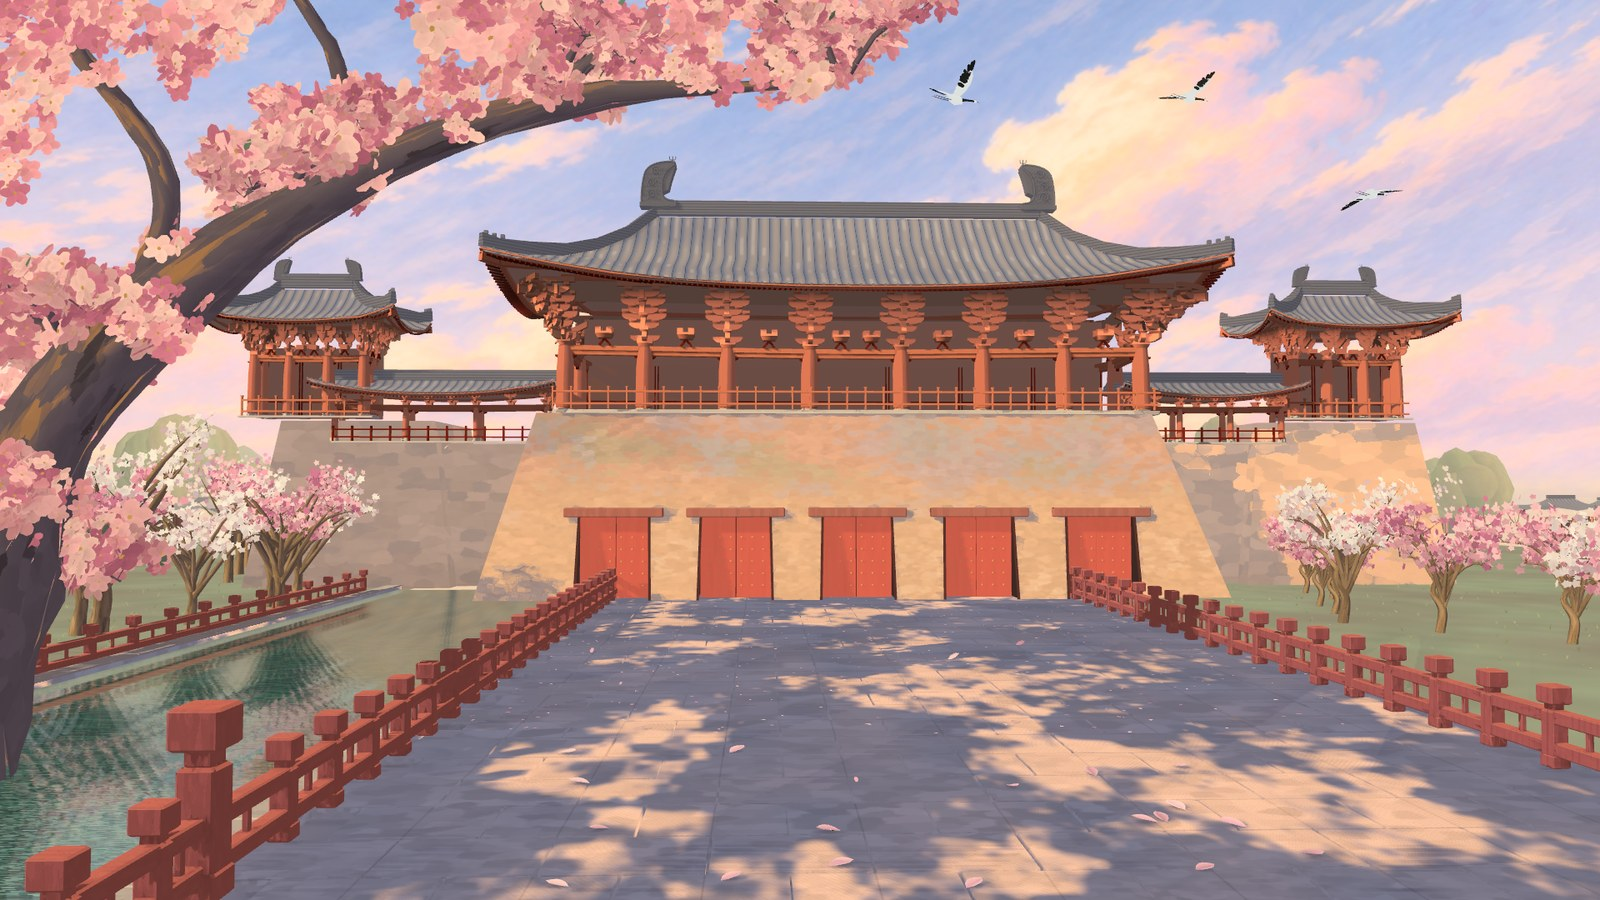
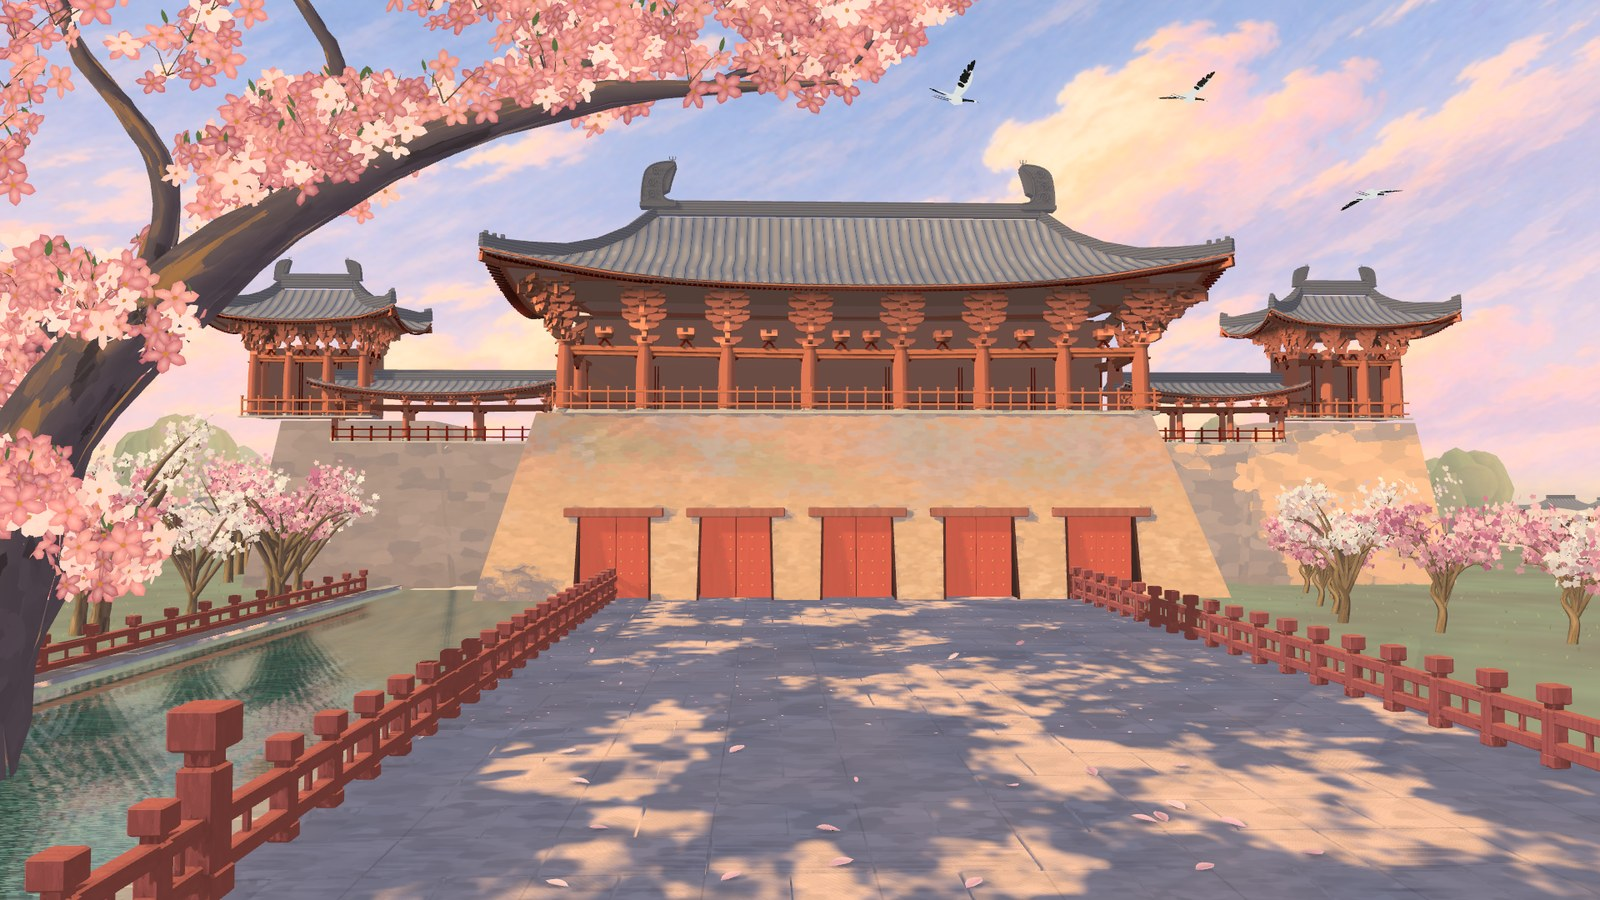
Finish X3: separate flowers on 宣德楼's branch, painted wall on 州桥
One bounded round on the last shapes. Kept the near branch's five-petal
sprays, tuned by hand to c1's pigments and range, and block courses with
brush marks on the near retaining wall. Reverted rebuilt bracket sets,
lobed mid willows and the narrower trunk: each looked worse beside the
sample, and the backlog says why. Water is byte-identical. 宣德楼's gate
is re-recorded to this version and back at its 3% limit.

Changed region(s): [[0.0, 0.0, 0.625, 0.4356], [0.0, 0.4667, 0.125, 0.6844]]

diff --git a/src/paint/blossom.js b/src/paint/blossom.js
@@ -17,8 +17,8 @@ function flower(g,p,r,normal,color,rng,hero){
  }
  const core=new THREE.Color('#c99a4e');g.flower(p.clone().addScaledVector(n,.008),r*.13,n,core,.13,0,0);
 }
-export function blossomGeometry(rng,{height=7,hero=false,white=false,detailRng=null,heroRepairRng=null}={}){
- const wood=new Geometry(),bloom=new Geometry(),h=height,clusters=[];
+export function blossomGeometry(rng,{height=7,hero=false,white=false,detailRng=null,heroRepairRng=null,sprayRng=null}={}){
+ const wood=new Geometry(),bloom=new Geometry(),h=height,clusters=[],sprays=[];
  if(hero){bloom.reflectionProxy=new Geometry();bloom.reflectionIndex=0;}
  const trunk=hero?[V(-1,-1,0),V(-.5,h*.21,-.6),V(1.3,h*.43,-1.6),V(6.2,h*.65,-2.1),V(13.2,h*.80,-2.8),V(21.2,h*.84,-3.2)]:[V(),V(.16,h*.18,0),V(-.2,h*.32,-.2),V(.2,h*.47,0)];
  wood.tube(trunk,hero?[1.95,1.65,1.14,.75,.40,.06]:[h*.034,h*.027,h*.019,h*.008],new THREE.Color('#48423c'),{sides:hero?16:8,gnarl:hero?.35:.75,smooth:5});
@@ -30,7 +30,7 @@ export function blossomGeometry(rng,{height=7,hero=false,white=false,detailRng=n
   const mid=from.clone().lerp(tip,.6).add(V(.1,.6,0));wood.tube([from,mid,tip],[hero?.14:h*.02,hero?.075:h*.010,.012],new THREE.Color('#52453e'),{sides:6,gnarl:.6,smooth:3});
   for(let j=0;j<(hero?9:5);j++){
    const base=mid.clone().lerp(tip,rng.range(.25,1)),end=base.clone().add(V(rng.range(-.65,.65),rng.range(.1,.9),rng.range(-.65,.65)));
-   clusters.push({base,end});
+   clusters.push({base,end});if(hero)sprays.push({base,center:end,spread:.95});
    wood.tube([base,end],[.027,.005],new THREE.Color('#483b39'),{sides:4,smooth:1});
    for(let k=0;k<(hero?12:8);k++){
     const p=end.clone().add(V(...rng.sphere()).multiplyScalar(rng.range(.06,hero?.72:.76)));
@@ -45,14 +45,16 @@ export function blossomGeometry(rng,{height=7,hero=false,white=false,detailRng=n
   const start=trunk[Math.min(4,i+1)],mid=start.clone().lerp(tip,.55).add(V(-.8,1.0,0));
   // inferred: short twigs stay inside the blossom; omit the long bare sky wires.
   wood.tube([mid.clone().lerp(tip,.65),tip],[.055,.008],new THREE.Color('#56443c'),{sides:5,gnarl:.3,smooth:3});
-  for(let j=0;j<7;j++){const center=mid.clone().lerp(tip,j/6);for(let k=0;k<20;k++){const p=center.clone().add(V(...rng.sphere()).multiplyScalar(rng.range(.3,1.05)));flower(bloom,p,rng.range(.24,.40),V(rng.range(-.6,.6),rng.range(-.2,.7),1),new THREE.Color(rng.pick(colors)),rng,true);}}
+  for(let j=0;j<7;j++){const center=mid.clone().lerp(tip,j/6);sprays.push({base:center.clone().add(V(-.2,-.3,.1)),center,spread:1.05});for(let k=0;k<20;k++){const p=center.clone().add(V(...rng.sphere()).multiplyScalar(rng.range(.3,1.05)));flower(bloom,p,rng.range(.24,.40),V(rng.range(-.6,.6),rng.range(-.2,.7),1),new THREE.Color(rng.pick(colors)),rng,true);}}
  }
  if(hero)for(const [i,center]of [V(2,19,0),V(5,21,-1),V(9,22,-1.5),V(12,20,-1)].entries()){
   wood.tube([center.clone().add(V(-.55,-.35,.1)),center],[.045,.006],new THREE.Color('#56443c'),{sides:4,smooth:2});
+  sprays.push({base:center.clone().add(V(-.4,-.6,.1)),center,spread:1.7});
   for(let k=0;k<150;k++){const p=center.clone().add(V(...rng.sphere()).multiplyScalar(rng.range(.25,2.0)));flower(bloom,p,rng.range(.25,.41),V(rng.range(-.6,.6),rng.range(-.2,.6),1),new THREE.Color(rng.pick(colors)),rng,true);}
  }
  if(hero)for(let j=0;j<16;j++){
   const f=j/15*(trunk.length-2)+1,index=Math.min(trunk.length-2,Math.floor(f)),center=trunk[index].clone().lerp(trunk[index+1],f-index).add(V(rng.range(-.8,.8),rng.range(.2,1.8),rng.range(-1,1)));
+  sprays.push({base:center.clone().add(V(-.2,-.4,.1)),center,spread:1.1});
   for(let k=0;k<38;k++){const p=center.clone().add(V(...rng.sphere()).multiplyScalar(rng.range(.2,1.15)));flower(bloom,p,rng.range(.24,.40),V(rng.range(-.6,.6),rng.range(-.1,.7),1),new THREE.Color(rng.pick(colors)),rng,true);}
  }
  // inferred: a separate detail seed leaves the accepted flowers in place.
@@ -112,7 +114,37 @@ export function blossomGeometry(rng,{height=7,hero=false,white=false,detailRng=n
   // inferred: coral pigment only, including its shade; green/gold stay.
   const kind=bloom.data[i*3];if(kind===2||kind===86){bloom.c[i*3]*=.98;bloom.c[i*3+1]*=.92;bloom.c[i*3+2]*=.83;}
  }
- return {wood:bark,reflectionWood,flowers:bloom.build(),reflectionFlowers:hero?bloom.reflectionProxy.build():null};
+ const loose=hero&&sprayRng?openSprays(sprayRng,sprays,colors):null;
+ return {wood:bark,reflectionWood,flowers:bloom.build(),reflectionFlowers:hero?bloom.reflectionProxy.build():null,visibleFlowers:loose?.flowers,visibleTwigs:loose?.wood};
+}
+// inferred: X3 replaces only the hero cluster fills, at their existing centres.
+// Six straight petal facets, pale inner paint and a dark throat keep each
+// five-petal flower separate. Independent sprays leave sky between their twigs.
+function openSprays(rng,clusters,colors){
+ const bloom=new Geometry(),wood=new Geometry();
+ for(const {base,center,spread}of clusters){
+  const count=rng.int(5,9),roll=rng.range(0,6.283),ends=[];
+  for(let j=0;j<3;j++){
+   const a=roll+j*2.399,tip=center.clone().add(V(Math.cos(a)*spread*.75,rng.range(.1,.7),Math.sin(a)*spread*.50));ends.push(tip);
+   wood.tube([base,base.clone().lerp(tip,.6).add(V(.05,.14,0)),tip],[.022,.013,.003],new THREE.Color('#62483d'),{sides:4,smooth:1,kind:90});
+  }
+  for(let j=0;j<count;j++){
+   const a=j*2.399+roll,rad=spread*1.25*Math.sqrt((j+.4)/count)*rng.range(.65,1.05),p=center.clone().add(V(Math.cos(a)*rad,Math.sin(a)*rad*.70,rng.range(-.40,.40)*spread));
+   const r=rng.range(.34,.55),n=V(rng.range(-.65,.65),rng.range(-.25,.65),1).normalize(),u=n.clone().cross(V(0,1,0)).normalize(),v=n.clone().cross(u),tone=rng.random(),color=new THREE.Color(tone<.24?rng.pick(['#fad2c0','#f7c3b0','#fbdccb']):tone>.84?rng.pick(['#c75f6b','#cf6a70']):rng.pick(['#df7a7c','#e8877f','#ee9486','#d96f76'])),turn=rng.range(0,6.283);
+   for(let k=0;k<5;k++){
+    const b=turn+k*6.283/5,d=u.clone().multiplyScalar(Math.cos(b)).addScaledVector(v,Math.sin(b)),side=n.clone().cross(d),q=p.clone().addScaledVector(d,r*.51),ids=[];
+    const mid=bloom.vertex(q,n,color.clone().lerp(new THREE.Color('#ffd8c2'),.42),2,.10,[.5,.5],p);
+    for(let z=0;z<6;z++){const t=z/6*6.283;ids.push(bloom.vertex(q.clone().addScaledVector(d,Math.cos(t)*r*.53).addScaledVector(side,Math.sin(t)*r*.32).addScaledVector(n,Math.sin(t)*r*.06),n,color.clone().multiplyScalar(rng.range(.93,1.06)),2,.10,[.5+.45*Math.cos(t),.5+.45*Math.sin(t)],p));}
+    for(let z=0;z<6;z++)bloom.tri(mid,ids[z],ids[(z+1)%6]);
+   }
+   bloom.flower(p.clone().addScaledVector(n,.012),r*.15,n,new THREE.Color('#d98a3e'),.10,0,0);
+  }
+  for(let j=0;j<3;j++){
+   const tip=ends[j],r=rng.range(.04,.075);bloom.ellipsoid(tip,V(r*.8,r,r*.8),new THREE.Color('#cd8296'),{detail:-1,kind:86,sway:.08});
+   if(j!==1)bloom.leaf(tip,rng.range(.30,.46),.16,V(rng.range(-.4,.4),.6,.1),new THREE.Color('#68754a'),.08,roll+j,87);
+  }
+ }
+ return {wood:wood.build(),flowers:bloom.build()};
 }
 export function scatteredPetals(rng,{count=220,x=[-7,14],z=[2,67],scale=1}={}){
  const g=new Geometry();for(let i=0;i<count;i++){const p=V(rng.range(...x),.075,rng.range(...z));g.leaf(p,rng.range(.065,.16)*scale,rng.range(.05,.12)*scale,V(Math.cos(i),0,Math.sin(i)),new THREE.Color(rng.pick(['#efadae','#f6c5b6','#d9959c'])),0,0,2);}

diff --git a/src/paint/xuande.js b/src/paint/xuande.js
@@ -13,6 +13,7 @@ import {broadleafGeometry} from './foliage.js';
 export function composeXuande(engine,time,viewAt){
  const keep=paintVisibility(engine,viewAt),keepReflection=paintVisibility(engine,viewAt,{reflection:true,waterBounds:[-28.5,-2,-14.4,85]});
  const families=['stone','plaster','timber','roof','bark','leaf'],batches=Object.fromEntries(families.map(k=>[k,new PaintBatch()])),reflected=Object.fromEntries(families.map(k=>[k,new PaintBatch()]));
+ let heroPaint=null;
  const rng=engine.rng('S1-xuande'),{stone,plaster,timber,bark,leaf}=batches;
  const both=(family,p,s,c,ao=1,chipped=false,kind=null)=>{batches[family].box(p,s,c,ao,0,chipped,kind);reflected[family].box(p,s,c,ao,0,false,kind);};
  const softened=(family,p,s,c,kind,bevel=.035)=>{
@@ -121,7 +122,7 @@ export function composeXuande(engine,time,viewAt){
   const g=broadleafGeometry(engine.rng(`D4-xuande-grove-${sign}-${i}`),{height:h}),m=new THREE.Matrix4().makeTranslation(x,0,z);
   bark.add(g.wood,m);leaf.add(g.leaves,m);reflected.leaf.add(g.leaves,m);g.wood.dispose();g.leaves.dispose();
  }
- function tree(x,z,h,white=false,hero=false,far=false){const options={height:h,hero,white,detailRng:engine.rng(`D4-blossom-details-${x}-${z}`),heroRepairRng:hero?engine.rng('X1b-xuande-hero-bark'):null},seed=engine.rng(`S1-blossom-${x}-${z}`),g=far?distantBlossomGeometry(seed,options):blossomGeometry(seed,options),m=new THREE.Matrix4().makeTranslation(x,0,z);bark.add(g.wood,m,'#ffffff',hero?.78:1);leaf.add(g.flowers,m);reflected.bark.add(g.reflectionWood||g.wood,m);reflected.leaf.add(g.reflectionFlowers||g.flowers,m);g.wood.dispose();g.reflectionWood?.dispose();g.flowers.dispose();g.reflectionFlowers?.dispose();}
+ function tree(x,z,h,white=false,hero=false,far=false){const options={height:h,hero,white,detailRng:engine.rng(`D4-blossom-details-${x}-${z}`),heroRepairRng:hero?engine.rng('X1b-xuande-hero-bark'):null,sprayRng:hero?engine.rng('X3-xuande-open-sprays'):null},seed=engine.rng(`S1-blossom-${x}-${z}`),g=far?distantBlossomGeometry(seed,options):blossomGeometry(seed,options),m=new THREE.Matrix4().makeTranslation(x,0,z);bark.add(g.wood,m,'#ffffff',hero?.78:1);const first=leaf.p.length/3;leaf.add(g.flowers,m);if(g.visibleFlowers)heroPaint={start:first,end:leaf.p.length/3,flowers:g.visibleFlowers,wood:g.visibleTwigs,m};reflected.bark.add(g.reflectionWood||g.wood,m);reflected.leaf.add(g.reflectionFlowers||g.flowers,m);g.wood.dispose();g.reflectionWood?.dispose();g.flowers.dispose();g.reflectionFlowers?.dispose();}
  tree(-22,48,22,false,true);tree(-34,23,12.5,true);
  for(let i=0;i<12;i++){tree(-34+rng.range(-4,4),5+i*4.2,rng.range(5.7,9.5),i%3===0);tree(29+rng.range(-2,5),3+i*4,rng.range(5,8),i%3===1);}
  // inferred: smaller blossom rows recede along both banks beyond the
@@ -145,7 +146,23 @@ export function composeXuande(engine,time,viewAt){
  const ground=groundPetals(engine.rng('S1-lying-petals'),{count:18,x:[-9,8],z:[45,56],scale:2.5});leaf.add(ground.petals);ground.petals.dispose();
  const petalShadows=new PaintBatch();petalShadows.add(ground.shadows);ground.shadows.dispose();
  const petals=scatteredPetals(rng,{count:650,x:[-13,22],z:[1,44],scale:1.25});leaf.add(petals);petals.dispose();
- for(const k of families)engine.add(keep(batches[k].mesh(paintMaterial(time,k,{profile:'xuande'}),'xuande-'+k)),{castShadow:false,receiveShadow:false});
+ const staged=[];
+ for(const k of families){
+  const old=keep(batches[k].mesh(paintMaterial(time,k,{profile:'xuande'}),'xuande-'+k));engine.add(old,{castShadow:false,receiveShadow:false});
+  if(heroPaint&&(k==='leaf'||k==='bark')){
+   const b=batches[k],next=new PaintBatch();for(const key of ['p','n','c','uv','data','wind','kind','detail'])next[key]=b[key].slice();
+   for(let i=0;i<b.idx.length;i+=3)if(k!=='leaf'||b.idx[i]<heroPaint.start||b.idx[i]>=heroPaint.end)next.idx.push(...b.idx.slice(i,i+3));
+   next.add(k==='leaf'?heroPaint.flowers:heroPaint.wood,heroPaint.m);
+   staged.push([old,keep(next.mesh(paintMaterial(time,k,{profile:'xuande'}),'xuande-'+k))]);
+  }
+ }
+ heroPaint?.flowers.dispose();heroPaint?.wood.dispose();
+ // Keep the accepted hero flowers/wood as the one-off sun casters. Install
+ // the main-only sprays and their dark twigs after that bake, once.
+ let installed=false;engine.onUpdate(()=>{if(installed)return;installed=true;for(const [old,next]of staged){
+  engine.scene.remove(old);for(const group of engine.registry.paint.culling){const i=group.meshes.findIndex(r=>r.mesh===old);if(i>=0){const [r]=group.meshes.splice(i,1);r.source.dispose();}}
+  old.geometry.dispose();old.material.dispose();engine.add(next,{castShadow:false,receiveShadow:false});
+ }});
  const reflection=new THREE.Scene();for(const k of families){const m=paintMaterial(time,k,{profile:'xuande',reflection:true});m.alphaToCoverage=false;reflection.add(keepReflection(reflected[k].mesh(m,'xuande-reflection-'+k)));}
  halls.dispose();
  const contact=paintMaterial(time,'leaf',{profile:'xuande'});contact.transparent=true;contact.depthWrite=false;contact.alphaToCoverage=false;

diff --git a/src/paint/scene.js b/src/paint/scene.js
@@ -204,10 +204,10 @@ export function compose(engine, time, viewAt) {
   // inferred: the foreground coping follows c2's diagonal, while the older
   // retaining wall behind the trunk runs into the near end of the bridge.
   const quayYaw=Math.atan(QUAY.slope),cq=Math.cos(quayYaw),sq=Math.sin(quayYaw),nearRng=engine.rng('D3-quay-stones');
-  const nearStone=(p,s,kind=74,yaw=0)=>{
+  const nearStone=(p,s,kind=74,yaw=0,visibleKind=kind)=>{
     const seed=p[0]*11+p[2]*17,g=kind===73||kind===75?chippedQuayBlock(s,seed):beveledBox(s,.04,seed),m=new THREE.Matrix4().makeRotationY(yaw);m.setPosition(...p);
     const color=new THREE.Color('#cdbd9f').multiplyScalar(nearRng.range(.98,1.02));
-    stone.add(g,m,color,1,0,kind);reflected.stone.add(g,m,color,1,0,kind);g.dispose();
+    stone.add(g,m,color,1,0,visibleKind);reflected.stone.add(g,m,color,1,0,kind);g.dispose();
   };
   const long=38/cq,center=6/cq;
   nearStone([QUAY.intercept+sq*center-cq*.14,.64,cq*center+sq*.14],[.75,1.28,long],74,quayYaw);
@@ -217,7 +217,7 @@ export function compose(engine, time, viewAt) {
   for(let v=-13/cq;v<25/cq;v+=1.18)nearStone([QUAY.intercept+sq*v,1.43,cq*v],[.76,.32,1.15],73,quayYaw);
   for(let iz=0;iz<12;iz++){
     const z=-17+iz*1.12;
-    if(iz===0)nearStone([-14,.94,-10.8],[1.0,1.88,13.5],74);
+    if(iz===0)nearStone([-14,.94,-10.8],[1.0,1.88,13.5],74,0,105);
     nearStone([-14.0,2.0,z],[1.15,.28,1.10],73);
   }
   // Source-based post/rail cadence, with a quieter strip below its coping.

diff --git a/src/paint/zhou-detail.js b/src/paint/zhou-detail.js
@@ -125,6 +125,16 @@ vec3 zhouBark(PaintMark m){
 export const ZHOU_STONE_GLSL=PAINTED_STONE_GLSL+/* glsl */`
 vec3 zhouStone(PaintMark m){
  vec3 n=normalize(vN);if(!gl_FrontFacing)n=-n;
+ if(abs(vKind-105.)<.5){
+  // inferred: the newly exposed retaining face has four rough warm-grey
+  // courses and a damp foot; only its visible material tag changes.
+  float sun=max(dot(n,paintSun),0.)*castShade(vP,n);
+  vec3 c=mix(linearColor(vec3(132.,116.,102.)/255.),linearColor(vec3(204.,176.,138.)/255.),sun);
+  c=paintedStone(c,vec2(vP.z,vP.y),vec2(2.6,.50),vec4(.45,.18,.34,.08),vec2(.012,.025));
+  // Brush marks, warm and cool, so that it holds up close in view 5.
+  c*=(.76+.48*m.load)*mix(vec3(.94,.97,1.04),vec3(1.08,1.,.90),m.pick);
+  return mix(c,linearColor(vec3(72.,70.,68.)/255.),(1.-smoothstep(.02,.55,vP.y))*.70);
+ }
  if(abs(vKind-73.)<.5||abs(vKind-75.)<.5){
   // inferred: flatten only the chipped top's lighting normal. The fan's
   // triangle normals must not draw pale Xs on an otherwise dressed face.

diff --git a/src/paint/strokes.js b/src/paint/strokes.js
@@ -99,7 +99,7 @@ export function strokeMaterial(time,kind,{reflection=false,bank=false,profile='z
       vec3 shadeMark(PaintMark m){
         ${xuande?'return xuandeMark(m);':''}
         ${fine&&kind==='bark'?'if(towerDetailView()&&vDetail.w>2.5)return zhouBark(m);':''}
-        ${fine&&kind==='stone'?'if(towerDetailView()&&(abs(vKind-73.)<.5||abs(vKind-75.)<.5||abs(vKind-52.)<.5||abs(vKind-37.)<.5))return zhouStone(m);':''}
+        ${fine&&kind==='stone'?'if((towerDetailView()||abs(vKind-105.)<.5)&&(abs(vKind-105.)<.5||abs(vKind-73.)<.5||abs(vKind-75.)<.5||abs(vKind-52.)<.5||abs(vKind-37.)<.5))return zhouStone(m);':''}
         vec3 p=m.p,n=m.n,c;float light;
         ${kind==='bark'?`p=vP;n=normalize(vN);if(!gl_FrontFacing)n=-n;`:kind==='timber'?`if(boatPart()){p=vP;n=normalize(vN);if(!gl_FrontFacing)n=-n;}`:kind==='stone'?`if(abs(vKind-70.)<.5&&paintView<2.5){p=vP;n=normalize(vN);}`:''}
         ${kind==='stone'?`

diff --git a/docs/BACKLOG.md b/docs/BACKLOG.md
@@ -9,19 +9,23 @@ Whole-picture
 - The detailed version hasn't been measured on a real GPU. On high-DPI screens it now starts at a pixel ratio of up to 2, not 1.5. The adaptive quality ladder protects slower machines.
 - Portrait phones crop the scenes heavily, and the English gloss takes noticeable space there.
 
-宣德楼, after X1 and X1b
-- Blossom clusters repeat, and read as stamped when you look for it.
+宣德楼, after X1, X1b and X3
+- The near branch now has separate five-petal flowers and sky between sprays, but they're smaller and denser than c1's, and the branch itself is a smooth curve without c1's gnarled forks. The further trees keep their older clusters.
+- The bracket sets are narrow stacks on a plain dark wall, where c1 has wide open frames tied by long beams: 70% dark gap in the band against c1's 38% (`test/gates/look-band.py`). X3 tried to rebuild them and reverted, see below.
+- The roofs are flatter than c1's: eave to ridge is about 1.4 times taller in the sample. Left alone because it changes approved outlines.
 - Tile rows and bracket shapes are still more regular than c1's.
 - The canal shows some hatching. Water was left alone at the client's request.
 - Distant trees at the right are soft smooth domes.
 
-州桥, after W1 to W3b and X2
+州桥, after W1 to W3b, X2 and X3
 - The water is the furthest thing from c2: paler, with a tan band under the bridge and softer reflections. c2 is deeper green with crisp vertical reflections. The client said it's fine, so it stays.
 - The tower bracket sets are smaller than c2's, so more pale frieze shows between them. Fixing that means changing geometry.
 - Mid-distance willows are curtains of thin strands where c2 has broad painted lobes. Pigment and light got them closer, but the shape needs new geometry.
 - The trunk's paint is close to c2, but its outline is still a low-poly tube with visible zigzags, and it has none of c2's big twisting forms.
+- The roofs are flatter than c2's by the same 1.4 times, and the near retaining wall now has block courses but is plainer than c2's rough stones.
 - Stone is more regular than c2. Pale ghost piers show in the water just below the bridge, and the boat has less dappled sunlight.
 - The tower paint matches in every view, but near stone in views 5 and 6 keeps its older treatment.
+- X3's failed attempts, one pass each, source and renders in `out/X3/` (not committed): straight-armed bracket sets with long ties read as horizontal stripes, because at this scale the ties dominate; c1's sets need open vertical frames first and the beams much quieter. Lobed mid willows with short fringes read as ribbed umbrellas, because the lobes were too regular and the whips too parallel. The narrower trunk improved view 1, but view 3's close shot showed a low-poly bulb above a pinched foot, so the outline needs real geometry with more rings, not a morph of the old tube.
 - Lesson for briefs: twice, my colour targets came from a region that held the wrong material (a saturation mask in W3b, loose boxes in X1). Codex hit every number and the picture got worse. Measure one material at a time, draw the boxes and look at them. Matching percentiles says nothing about shape either: X2's first trunk matched c2's percentiles and looked like giraffe hide.
 
 州桥's added views

diff --git a/docs/ROADMAP.md b/docs/ROADMAP.md
@@ -1,6 +1,6 @@
 # Roadmap
 
-The painted impression, on branch `impression`. `docs/IMPRESSION.md` is the brief. Each task passes the lead's gate.
+The painted impression, merged to `main` at the client's request after X3. `docs/IMPRESSION.md` is the brief. Each task passes the lead's gate.
 
 | Task | Delivers | Status |
 |---|---|---|
@@ -16,12 +16,12 @@ The painted impression, on branch `impression`. `docs/IMPRESSION.md` is the brie
 | W1 to W3b | 州桥 only: a baked sun shadow map, sun and shade pigments, contact occlusion, a stroke atlas with light per mark, tile rows, deep brackets, coursed walls | Done |
 | X1, X1b | 宣德楼 brought up to 州桥: sunlight, marks, roof runs, deep brackets, rails, a flaked wall and a forked branch | Done, waiting on the client |
 | X2 | Fine detail: cooler tile rows and warm timber on 州桥's towers, pale frieze panels, bracket sets that differ on both scenes, painted bark plates, quay stone with leaf dapple, lobed mid-distance willows, darker piers. Water untouched, at the client's request | Done, waiting on the client |
+| X3 | One bounded round on the last shapes. Kept: separate five-petal flowers on 宣德楼's near branch, and painted block courses on 州桥's near retaining wall. Tried and reverted: rebuilt bracket sets, lobed mid willows, a narrower twisting trunk (see the backlog) | Done, waiting on the client |
 
 ## Waiting on the client
 
 1. **Frame rate of the detailed version.** The earlier version held 60 FPS on their RTX 3070 Laptop GPU. This one costs less in software tests, but only a real GPU can confirm it. Press `P`, in each view of 州桥 too.
-2. **Merge to `main`?** `impression` carries the views and these rounds. `main` stays at the detailed version until the client asks.
-3. **More scenes?** Proposed: 御街, 大庆殿 at dawn, the 汴河 with boats, and a night market. Each needs a target image the client approves first, as c1 and c2 were.
+2. **More scenes?** Proposed: 御街, 大庆殿 at dawn, the 汴河 with boats, and a night market. Each needs a target image the client approves first, as c1 and c2 were.
 
 ## Later
 
@@ -29,4 +29,4 @@ Crowds, and the rest of the city.
 
 ## The earlier photoreal version
 
-`main` holds the finished walkable city, and on this branch `?world=1` still opens it. Its tasks T0 to T11 are done, with faults listed in the backlog.
+`?world=1` still opens the finished walkable city. Its tasks T0 to T11 are done, with faults listed in the backlog.

diff --git a/README.md b/README.md
@@ -76,7 +76,7 @@ node test/gates/views.mjs                            # every view of 州桥: hol
 
 ## The earlier version
 
-Before this, the project was a photoreal, walkable reconstruction of the palace axis at its real scale. It's finished and lives on `main`, and on this branch `?world=1` still opens it. It lost out because the city was too big to travel and photorealism was where procedural work looked weakest.
+Before this, the project was a photoreal, walkable reconstruction of the palace axis at its real scale. It's finished, and `?world=1` still opens it. It lost out because the city was too big to travel and photorealism was where procedural work looked weakest.
 
 ## What's next
 
